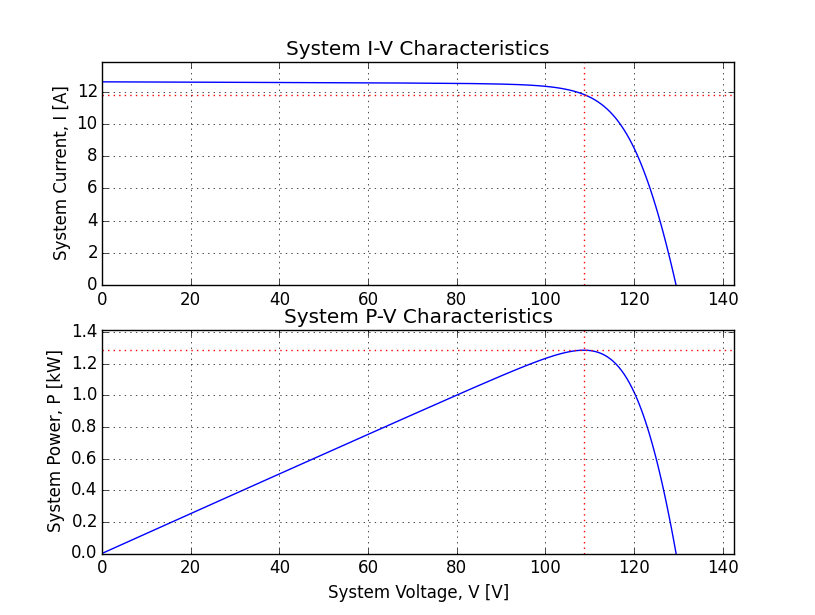
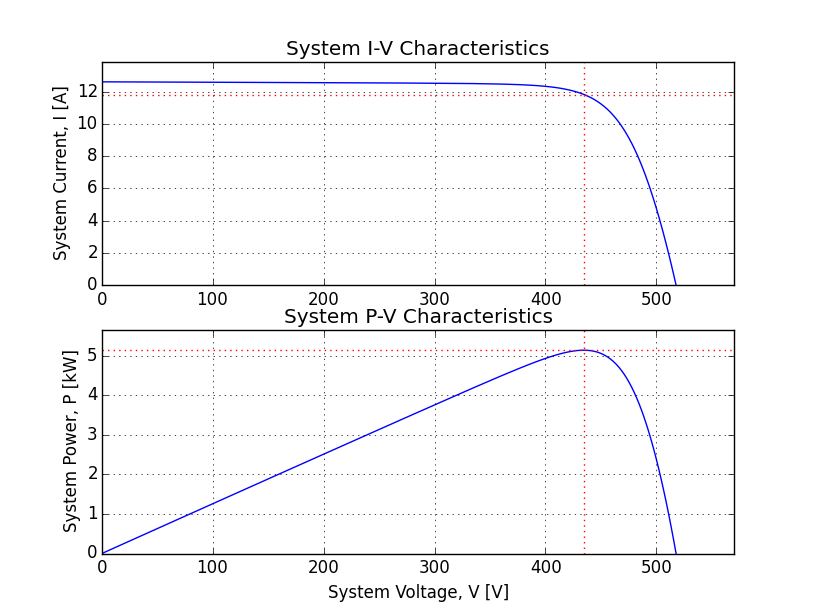
finish up quickstart tutorial
* add images
* remove flatten() Isys and Vsys, not used in PVsystem

diff --git a/pvmismatch/pvmismatch_lib/pvsystem.py b/pvmismatch/pvmismatch_lib/pvsystem.py
@@ -73,8 +73,6 @@ class PVsystem(object):
         Pmp = self.Psys[mpp]
         Vmp = self.Vsys[mpp]
         Imp = self.Isys[mpp]
-        Isys = self.Isys.flatten()
-        Vsys = self.Vsys.flatten()
         # calculate Voc, current must be increasing so flipup()
         Voc = np.interp(np.float64(0), np.flipud(self.Isys),
                         np.flipud(self.Vsys))

diff --git a/pvmismatch/pvmismatch_lib/pvmodule.py b/pvmismatch/pvmismatch_lib/pvmodule.py
@@ -203,7 +203,7 @@ class PVmodule(object):
         """
         Calculate module I-V curves.
 
-        Returns (Imod, Vmod, Pmod) : tuple of numpy.ndarray of float
+        Returns module currents [A], voltages [V] and powers [W]
         """
         # iterate over substrings
         # TODO: benchmark speed difference append() vs preallocate space

diff --git a/pvmismatch/docs/tutorials/quickstart.rst b/pvmismatch/docs/tutorials/quickstart.rst
@@ -35,14 +35,163 @@ Example
 In this example let's make a PV system of 2 strings with 8 modules each using
 standard 96 cell modules. You can enter these commands in the Python
 interpreter, run them from a script or simply paste them in
-`IPython <http://ipython.org/>`_ with ``%paste``.
+`IPython <http://ipython.org/>`_ with ``%paste``. ::
 
-.. code-block:: python
+    >>> from pvmismatch import *  # this imports everything we need
+    >>> pvsys = pvsystem.PVsystem(numberStrs=2, numberMods=8)  # makes the system
+    >>> from matplotlib import pyplot as plt  # now lets make some plots
+    >>> plt.ion()  # this turns on interactive plotting
+    >>> f = pvsys.plotSys()  # creates a figure with the system IV & PV curve
 
-   >>> from pvmismatch import *  # this imports everything we need
-   >>> pvsys = pvsystem.PVsystem(numberStrs=2, numberMods=8)  # makes the system
-   >>> from matplotlib import pyplot as plt  # now lets make some plots
-   >>> plt.ion()  # this turns on interactive plotting
-   >>> f = pvsys.plotSys()  # creates a figure with the system IV & PV curve
+    >>> pvsys.Vmp  # max voltage [V]
+    434.78820171467481
+
+    >>> pvsys.Imp  # max current [A]
+    11.821752935151656
+
+    >>>pvsys.Pmp  # max power [W]
+    5139.9586997897668
+
+    >>> pvsys.FF  # fill factor
+    0.78720728660102768
+
+    >>> pvsys.eff  # efficiency
+    0.21824347997841023
+
+    >>> pvsys.Voc  # open circuit voltage [V]
+    517.7428517321761
+
+    >>> pvsys.Isc  # short circuit current [A]
+    12.611199981080691
 
 .. image:: ../../res/pvsys_plot_2x8-std96.png
+
+Now lets shade the last row of the 1st module in the 1st string::
+
+    >>> pvsys.setSuns({0: {0: [(0.2, ) * 8, (11, 12, 35, 36, 59, 60, 83, 84)]}})
+    >>> f_shade = pvsys.plotSys()
+
+.. image:: ../../res/pvsys_plot_2x8-std96_last_row.png
+
+How is this system doing now? ::
+
+    >>> pvsys.Vmp
+    402.2176762133148
+
+    >>> pvsys.Imp
+    11.782413660383165
+
+    >>> pvsys.Pmp
+    4739.0950426633335
+
+    >>> pvsys.FF
+    0.72444923136011019
+
+    >>> pvsys.eff
+    0.2020646802535036
+
+    >>> pvsys.Voc
+    517.5628797316385
+
+    >>> pvsys.Isc
+    12.63933841066166
+
+That did a little damage - the system lost 400[W] about 8%. Let's see what's
+actually going on with those cells in the last row of the 1st module in the
+1st string. ::
+
+    >>> pvsys.pvmods[0][0].pvcells[0]  # let's see if they're actually shaded
+    <PVcell(Ee=1[suns], Tcell=298.15[K], Isc=6.3056[A], Voc=0.67444[V])>
+
+    >>> [pvsys.pvmods[0][0].pvcells[_] for _ in (11, 12, 35, 36, 59, 60, 83, 84)]
+    [<PVcell(Ee=0.2[suns], Tcell=298.15[K], Isc=1.26112[A], Voc=0.630143[V])>,
+     <PVcell(Ee=0.2[suns], Tcell=298.15[K], Isc=1.26112[A], Voc=0.630143[V])>,
+     <PVcell(Ee=0.2[suns], Tcell=298.15[K], Isc=1.26112[A], Voc=0.630143[V])>,
+     <PVcell(Ee=0.2[suns], Tcell=298.15[K], Isc=1.26112[A], Voc=0.630143[V])>,
+     <PVcell(Ee=0.2[suns], Tcell=298.15[K], Isc=1.26112[A], Voc=0.630143[V])>,
+     <PVcell(Ee=0.2[suns], Tcell=298.15[K], Isc=1.26112[A], Voc=0.630143[V])>,
+     <PVcell(Ee=0.2[suns], Tcell=298.15[K], Isc=1.26112[A], Voc=0.630143[V])>,
+     <PVcell(Ee=0.2[suns], Tcell=298.15[K], Isc=1.26112[A], Voc=0.630143[V])>]
+
+    >>> f_mod00 = pvsys.pvmods[0][0].plotMod()  # plot that module
+    >>> f_mod00cells = pvsys.pvmods[0][0].plotCell()  # plot all the cells
+
+    >>> import numpy as np  # let's find the string current by interpolatign
+    >>> np.interp(pvsys.Vmp, pvsys.pvstrs[0].Vstring, pvsys.pvstrs[0].Istring)
+    5.624635929989247
+
+.. image:: ../../res/pvmod00_plot_2x8-std96_last_row.png
+.. image:: ../../res/pvmod00cells_plot_2x8-std96_last_row.png
+
+Interpolation of string current from the system voltage yields 5.6[A]. Those
+shaded cells can only carry that current in reverse bias, so they must be hot!
+Let's change their temperatures. In fact since the temperatures are still at
+25[C], let's update the normal cells too::
+
+    >>> for pvstr in pvsys.pvstrs:
+    ...     for pvmod in pvstr.pvmods:
+    ...         for n, pvc in enumerate(pvmod.pvcells):
+    ...             if n in (11, 12, 35, 36, 59, 60, 83, 84):
+    ...                 pvc.Tcell = 100. + 273.15  # [K] hot cells in RBD
+    ...             else:
+    ...                 pvc.Tcell = 50. + 273.15  # [K] normal cells
+    ...         (pvmod.Imod, pvmod.Vmod, pvmod.Pmod,
+    ...          pvmod.Vsubstr) = pvmod.calcMod()  # update the modules in each string
+    ...     (pvstr.Istring, pvstr.Vstring,
+    ...      pvstr.Pstring) = pvstr.calcString()  # update each string in the system
+    >>> pvsys.Isys, pvsys.Vsys, pvsys.Psys = pvsys.calcSystem()
+    >>> (pvsys.Imp, pvsys.Vmp, pvsys.Pmp,
+    ...  pvsys.Isc, pvsys.Voc, pvsys.FF, pvsys.eff) = pvsys.calcMPP_IscVocFFeff()
+
+    >>> pvsys.pvmods[0][0].pvcells[0]  # let's see if they're actually hot
+    <PVcell(Ee=1[suns], Tcell=323.15[K], Isc=6.36158[A], Voc=0.63443[V])>
+
+    >>> [pvsys.pvmods[0][0].pvcells[_] for _ in (11, 12, 35, 36, 59, 60, 83, 84)]
+    [<PVcell(Ee=0.2[suns], Tcell=373.15[K], Isc=1.29471[A], Voc=0.497765[V])>,
+     <PVcell(Ee=0.2[suns], Tcell=373.15[K], Isc=1.29471[A], Voc=0.497765[V])>,
+     <PVcell(Ee=0.2[suns], Tcell=373.15[K], Isc=1.29471[A], Voc=0.497765[V])>,
+     <PVcell(Ee=0.2[suns], Tcell=373.15[K], Isc=1.29471[A], Voc=0.497765[V])>,
+     <PVcell(Ee=0.2[suns], Tcell=373.15[K], Isc=1.29471[A], Voc=0.497765[V])>,
+     <PVcell(Ee=0.2[suns], Tcell=373.15[K], Isc=1.29471[A], Voc=0.497765[V])>,
+     <PVcell(Ee=0.2[suns], Tcell=373.15[K], Isc=1.29471[A], Voc=0.497765[V])>,
+     <PVcell(Ee=0.2[suns], Tcell=373.15[K], Isc=1.29471[A], Voc=0.497765[V])>]
+
+    >>> pvsys.Vmp
+    366.47478232230725
+
+    >>> pvsys.Imp
+    11.899172822831037
+
+    >>> pvsys.Pmp
+    4360.7467700625184
+
+    >>> pvsys.FF
+    0.7112590373271831
+
+    >>> pvsys.eff
+    0.18593273479992933
+
+    >>> pvsys.Voc
+    481.38161747925454
+
+    >>> pvsys.Isc
+    12.73630844925832
+
+    >>> f_hot = pvsys.plotSys()
+
+.. image:: ../../res/pvsys_plot_2x8-std96_last_row_hot.png
+
+A couple of things to notices:
+
+* For normal cells Voc decreases as expected when temperature is increased from
+  25[C] to 50[C] under the same 1[sun] conditions from 0.67444[V] to 0.63443[V].
+  The equivalent :math:`\beta V_oc = 0.15 \left[ V / C \right ]` for 96-cells.
+* Only PV cells update themselves automatically. PV modules, PV strings and the
+  PV system must be updated manually and in addition the output must be
+  reassigned to the objects. These methods,
+  :meth:`~pvmismatch.pvmismatch_lib.pvmodule.PVmodule.calcMod()`,
+  :meth:`~pvmismatch.pvmismatch_lib.pvmodule.PVstring.calcString()` and
+  :meth:`~pvmismatch.pvmismatch_lib.pvmodule.PVsystem.calcSystem()`, don't
+  actually update the objects their associated with, although this may change
+  in the future. When updating the system, loop from the inside out.
+
